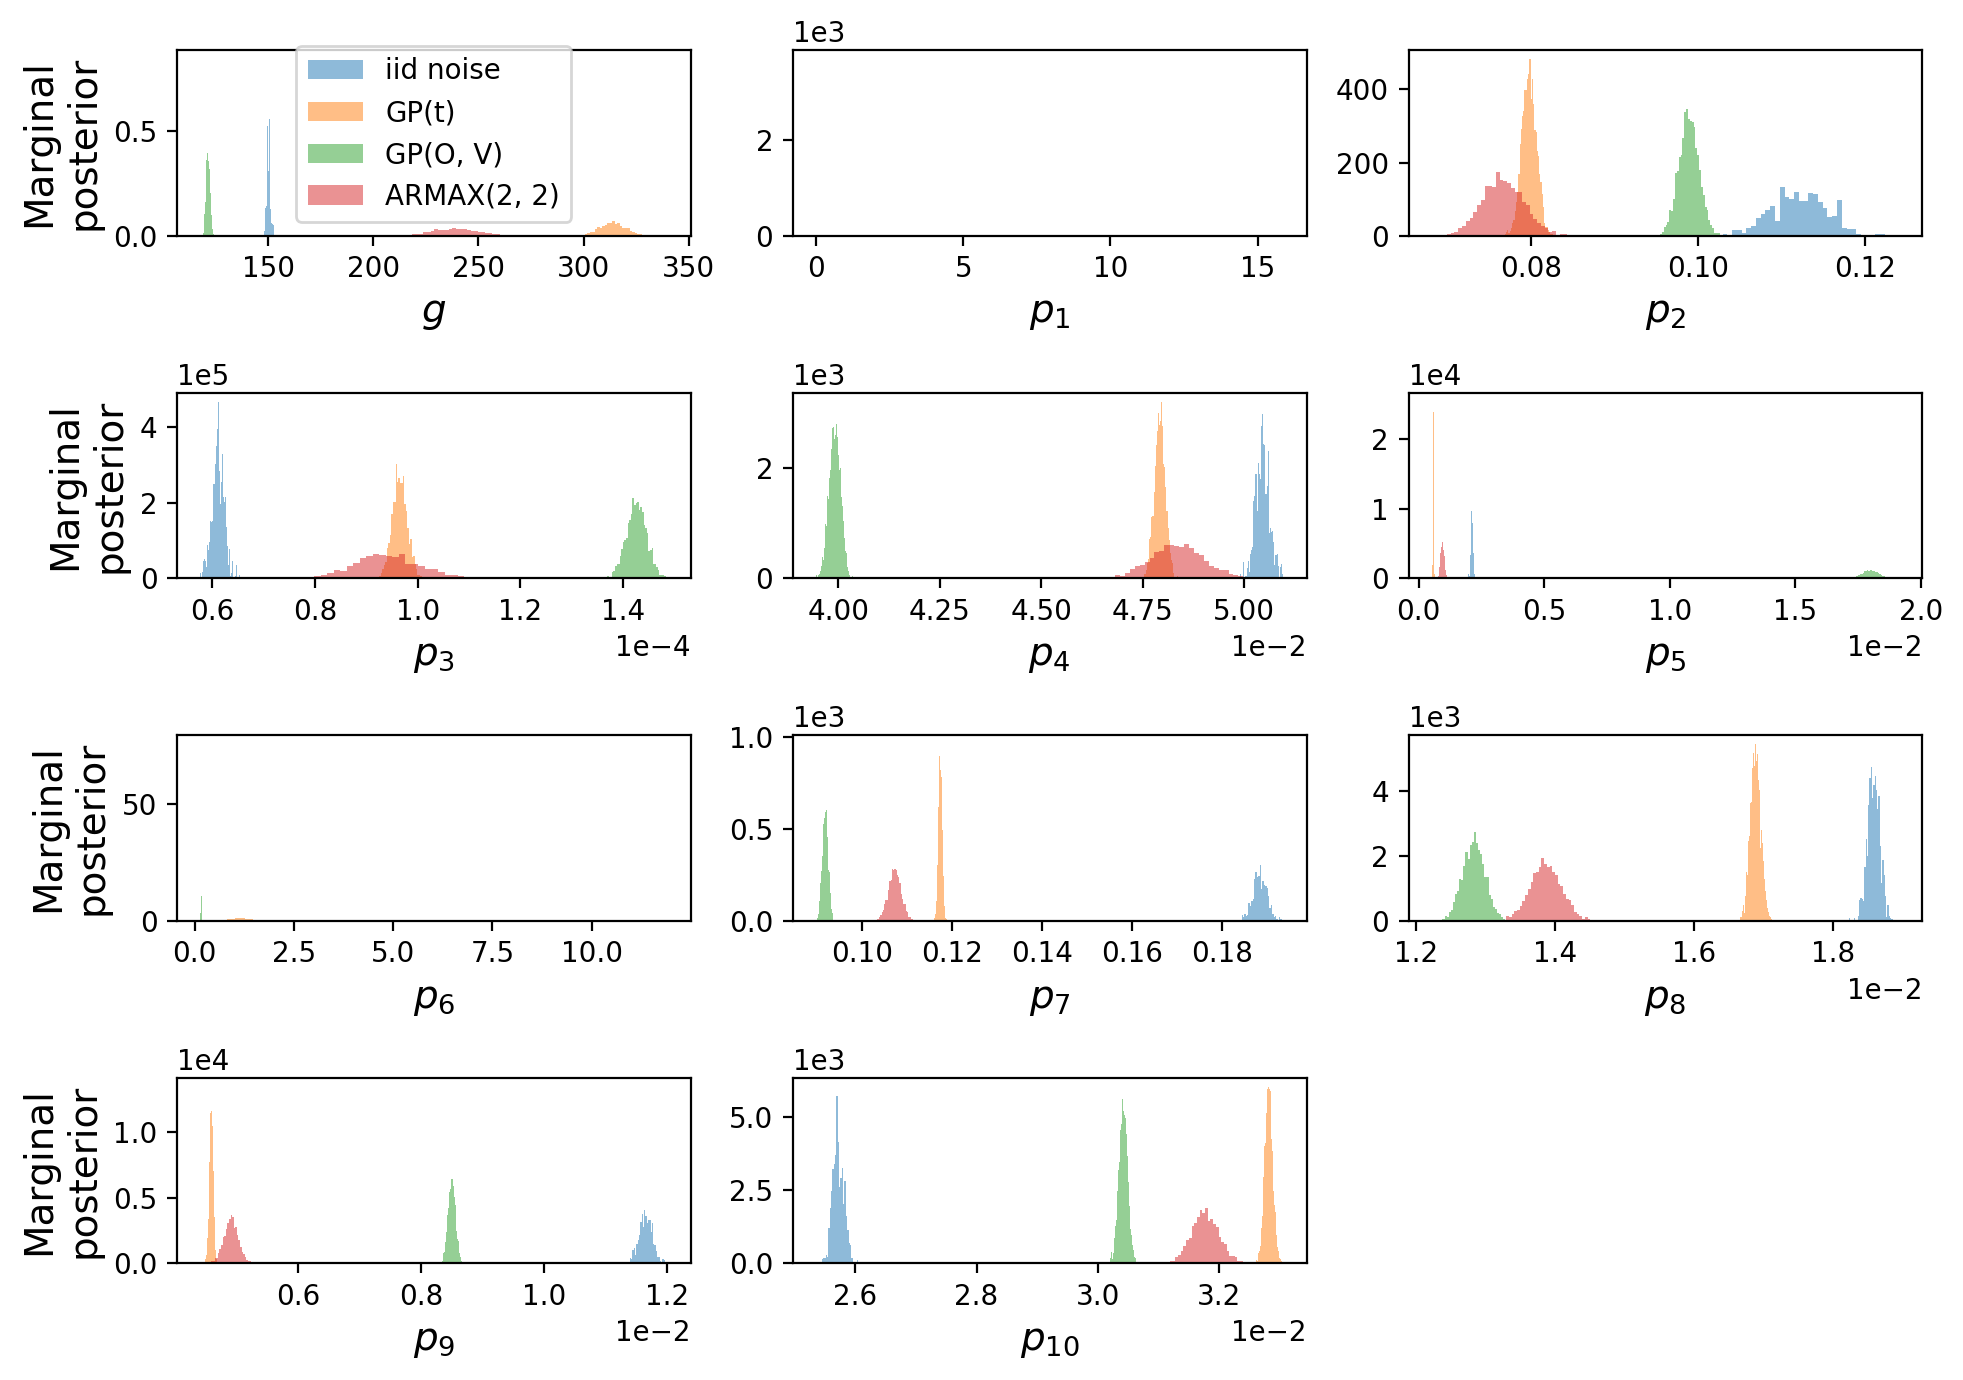
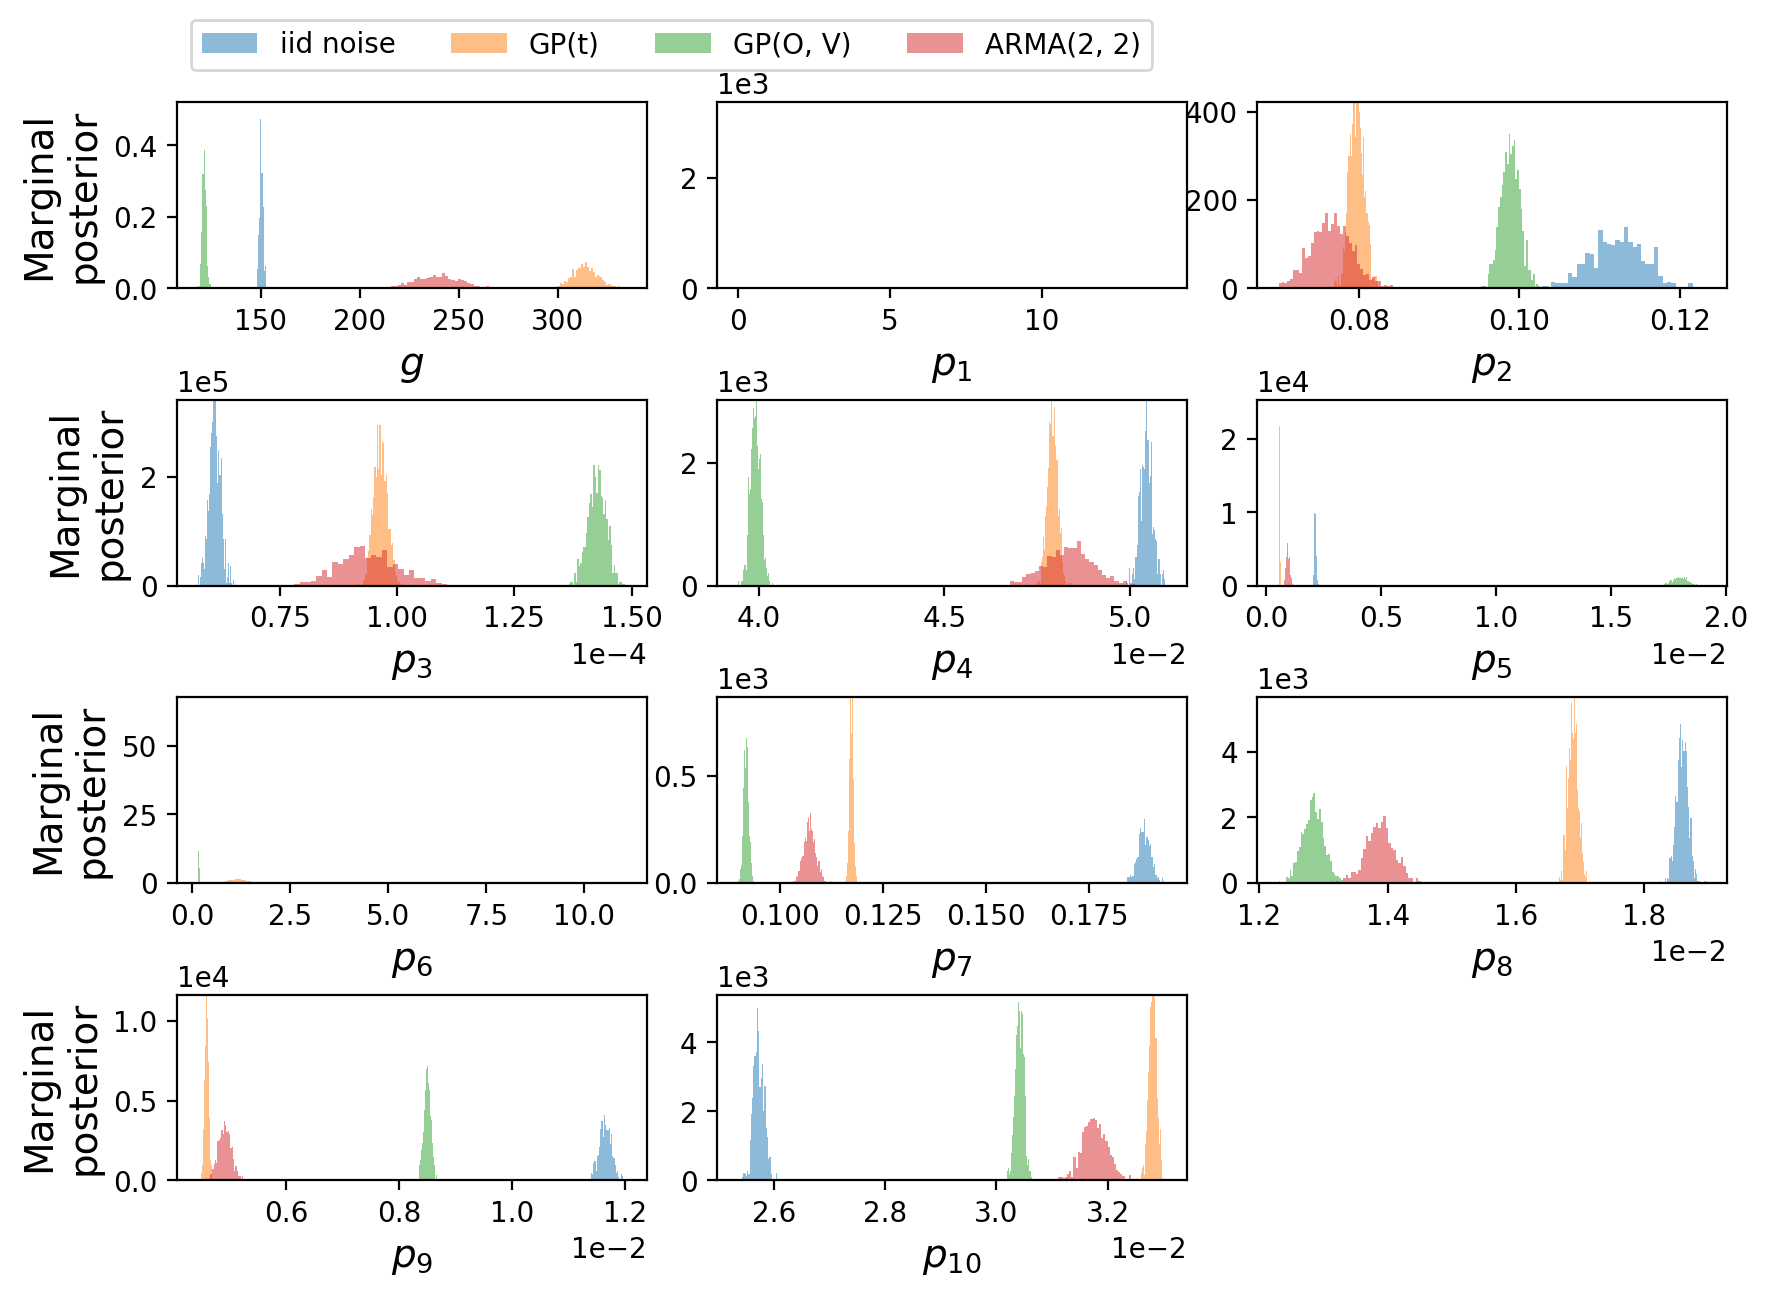
Update figure size

diff --git a/ion-channel-models/compare-posteriors.py b/ion-channel-models/compare-posteriors.py
@@ -16,7 +16,7 @@ Posterior distributions with different discrepancy models.
 
 model_list = ['A', 'B', 'C']
 discrepancy_list = ['', '-gp', '-gp-ov', '-arma_2_2']
-discrepancy_names = ['iid noise', 'GP(t)', 'GP(O, V)', 'ARMAX(2, 2)']
+discrepancy_names = ['iid noise', 'GP(t)', 'GP(O, V)', 'ARMA(2, 2)']
 chain_to_use = [0, 0, 0, 0]
 
 try:
@@ -44,7 +44,7 @@ saveas = 'compare-' + info_id + '-sinewave-posteriors'
 # Load MCMC results
 all_samples = []
 lastniter = 25000
-thinning = 5
+thinning = 25
 for i, d in enumerate(discrepancy_list):
     loaddir = './out/mcmc-' + info_id + d
     loadas = info_id + '-sinewave'
@@ -59,7 +59,11 @@ for i, d in enumerate(discrepancy_list):
 bins = 40
 alpha = 0.5
 n_percentiles = None
-fig, axes = plt.subplots(int(np.ceil(n_parameters / 3)), 3, figsize=(10, 7))
+ymin = 0
+if which_model == 'A':
+    fig, axes = plt.subplots(int(np.ceil(n_parameters / 3)), 3, figsize=(10, 5))
+else:
+    fig, axes = plt.subplots(int(np.ceil(n_parameters / 3)), 3, figsize=(10, 7))
 for i in range(axes.size):
     ai, aj = int(i // 3), i % 3
     if not (i < n_parameters):
@@ -69,6 +73,7 @@ for i in range(axes.size):
     if aj == 0:
         axes[ai, aj].set_ylabel('Marginal\nposterior', fontsize=14)
     axes[ai, aj].ticklabel_format(axis='both', style='sci', scilimits=(-2, 3))
+    ymax = []
     for j, samples_j in enumerate(all_samples):
         if n_percentiles is None:
             xmin = np.min(samples_j[:, i])
@@ -79,11 +84,15 @@ for i in range(axes.size):
             xmax = np.percentile(samples_j[:, i],
                                  50 + n_percentiles / 2.)
         xbins = np.linspace(xmin, xmax, bins)
-        axes[ai, aj].hist(samples_j[:, i], bins=xbins, alpha=alpha,
+        n, _, _ = axes[ai, aj].hist(samples_j[:, i], bins=xbins, alpha=alpha,
                 density=True, label=discrepancy_names[j], color='C' + str(j))
-axes[0, 0].legend()
-#plt.subplots_adjust(hspace=0., wspace=0.)
-plt.tight_layout()
+        ymax = np.append(ymax, n)
+    ymax.sort()
+    axes[ai, aj].set_ylim((ymin, ymax[-3]))
+axes[0, 0].legend(loc='lower left', bbox_to_anchor=(0, 1.1), ncol=4,
+        bbox_transform=axes[0, 0].transAxes)
+plt.subplots_adjust(hspace=.6, wspace=.15)
+#plt.tight_layout()
 plt.savefig('%s/%s' % (savedir, saveas), dpi=200, bbox_inches='tight')
 plt.close('all')
 
